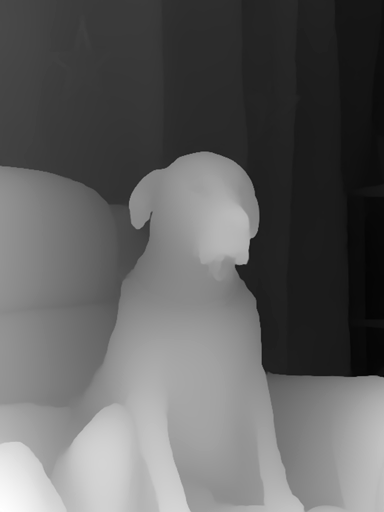
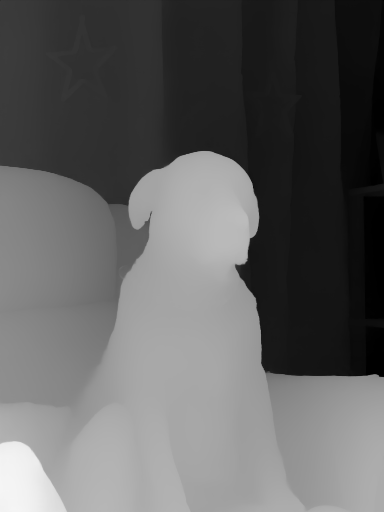
Real depth for 3D photos: Apple Depth Pro + true-shape rendering
- prepare_photos.py: Depth Pro (metric depth + field of view) instead of
  Depth Anything V2 Small; log-depth encoding, subject-aware focus distance,
  depth cached in ~/.cache/photonic-depth so reruns skip the model
- photo shader: relative log depth in a fixed range (faces have shape,
  people stand clear of the background), perspective spread when opened,
  per-pixel edge detection fades outlines instead of smearing them
- opened photo gets the room to itself; overview uses a lighter grid
- dog demo set rebuilt
60 fps in overview and opened photos (1470x850).

diff --git a/src/demos/photoMaterial.js b/src/demos/photoMaterial.js
@@ -1,18 +1,29 @@
 import * as THREE from 'three';
 import { THEME } from '../engine/theme';
 
-// A photo that is really a 3D surface: every vertex is pushed toward you by the
-// AI depth map, so faces bulge forward and backgrounds fall back.
-export const PHOTO_GEO = new THREE.PlaneGeometry(1, 1, 110, 110);
+// A photo rebuilt as real 3D. Depth Pro gives each pixel a distance in metres and the
+// camera's field of view, so every vertex goes back onto its true line of sight:
+// faces bulge, people stand clear of the scenery, hills sit far away.
+//
+// Where depth jumps (a person's outline) the surface would stretch into a smeared
+// curtain; instead it fades out, so people float clear of the scene with a soft gap
+// of sky behind them as you lean.
+// Opened photos get the fine grid; the 31 in the overview use a quarter of the vertices.
+export const PHOTO_GEO = new THREE.PlaneGeometry(1, 1, 128, 128);
+export const PHOTO_GEO_LO = new THREE.PlaneGeometry(1, 1, 64, 64);
 
-export function makePhotoMaterial(map, depth, glow) {
+export function makePhotoMaterial({ map, depth, meta, glow }) {
+    // Where the subject sits in the 0..1 log-depth range (matches the encoding in prepare_photos.py).
+    const focusT = meta ? Math.log(meta.focus / meta.near) / Math.log(meta.far / meta.near) : 0.4;
     return new THREE.ShaderMaterial({
         transparent: true,
         side: THREE.DoubleSide,
         uniforms: {
             uMap: { value: map },
             uDepth: { value: depth },
-            uDepthAmt: { value: 0.22 },
+            uFocusT: { value: focusT },
+            uDepthRange: { value: 0.9 },
+            uDepthAmt: { value: 0.35 },
             uHover: { value: 0 },
             uDissolve: { value: 0 },
             uOpacity: { value: 1 },
@@ -22,57 +33,70 @@ export function makePhotoMaterial(map, depth, glow) {
             uFog: { value: new THREE.Color(THEME.bg) },
         },
         vertexShader: /* glsl */`
-            uniform sampler2D uDepth; uniform float uDepthAmt; uniform float uTime; uniform float uDissolve;
-            varying vec2 vUv; varying float vStretch; varying float vWZ;
+            uniform sampler2D uDepth; uniform float uFocusT; uniform float uDepthRange;
+            uniform float uDepthAmt; uniform float uDissolve;
+            varying vec2 vUv; varying float vL; varying float vWZ;
             void main(){
                 vUv = uv;
-                float d = texture2D(uDepth, uv).r;
-                float e = 1.0/110.0;
-                float dx = texture2D(uDepth, uv+vec2(e,0.)).r - texture2D(uDepth, uv-vec2(e,0.)).r;
-                float dy = texture2D(uDepth, uv+vec2(0.,e)).r - texture2D(uDepth, uv-vec2(0.,e)).r;
-                // Big depth jumps stretch triangles into "curtains"; remember where so we can hide them.
-                vStretch = length(vec2(dx,dy)) * uDepthAmt * 30.0;
-                float edge = smoothstep(0.0,0.05,uv.x)*smoothstep(1.0,0.95,uv.x)*smoothstep(0.0,0.05,uv.y)*smoothstep(1.0,0.95,uv.y);
-                vec3 p = position;
-                p.z += (d - 0.3) * uDepthAmt * mix(0.35, 1.0, edge);
-                // Dissolve: the surface drifts apart as it burns away.
-                p.z += uDissolve * uDissolve * (d + 0.2) * 0.8;
+                // Normalised log depth: 0 = nearest point, 1 = farthest. Log spacing keeps
+                // detail where it matters (faces) and still orders far hills correctly.
+                float t = 1.0 - texture2D(uDepth, uv).r;
+                vL = t;
+                float rel = t - uFocusT;                       // + behind the subject, - in front
+                float open = smoothstep(0.5, 1.0, uDepthAmt);
+                // Depth fits a fixed range (in photo heights), so every photo reads as 3D
+                // without flying across the room. A little perspective spread when opened.
+                vec3 real = vec3(position.xy * (1.0 + rel * 0.15 * open), -rel * uDepthRange);
+                vec3 p = mix(position, real, uDepthAmt);
+                p.z += uDissolve * uDissolve * 0.8;
                 p.xy += (uv - 0.5) * uDissolve * 0.6;
-                vec4 w = modelMatrix * vec4(p,1.0);
+                vec4 w = modelMatrix * vec4(p, 1.0);
                 vWZ = w.z;
                 gl_Position = projectionMatrix * viewMatrix * w;
             }`,
         fragmentShader: /* glsl */`
             uniform sampler2D uMap; uniform float uHover; uniform float uDissolve; uniform float uOpacity;
             uniform float uTime; uniform float uWarn; uniform vec3 uGlow; uniform vec3 uFog;
-            varying vec2 vUv; varying float vStretch; varying float vWZ;
+            uniform float uDepthAmt;
+            varying vec2 vUv; varying float vL; varying float vWZ;
             float hash(vec2 p){ return fract(sin(dot(p, vec2(127.1,311.7))) * 43758.5453); }
             float noise(vec2 p){ vec2 i=floor(p), f=fract(p); f=f*f*(3.0-2.0*f);
                 return mix(mix(hash(i),hash(i+vec2(1,0)),f.x), mix(hash(i+vec2(0,1)),hash(i+vec2(1,1)),f.x), f.y); }
             void main(){
+                // Tear open only along real outlines: a triangle stretched across a depth jump
+                // changes depth very fast per unit of photo (uv); a face's curve changes slowly.
+                vec2 gl = vec2(dFdx(vL), dFdy(vL));
+                float duv = length(vec2(dFdx(vUv.x), dFdy(vUv.x))) + length(vec2(dFdx(vUv.y), dFdy(vUv.y)));
+                float slope = length(gl) / max(duv, 1e-6);
+                float tear = smoothstep(3.0, 7.0, slope) * smoothstep(0.35, 0.7, uDepthAmt);
+                if (tear > 0.97) discard;
+
                 vec3 c = texture2D(uMap, vUv).rgb;
                 float n = noise(vUv*18.0)*0.7 + noise(vUv*60.0)*0.3;
                 float cut = uDissolve * 1.15 - 0.05;
                 if (n < cut) discard;
                 float burn = smoothstep(0.08, 0.0, n - cut) * step(0.001, uDissolve);
 
-                // A frosted white glass frame with a hairline of soft ink outside it.
+
+                // Frosted white frame, fading out as the photo opens into full 3D.
                 float e = min(min(vUv.x, 1.0-vUv.x), min(vUv.y, 1.0-vUv.y));
-                float frame = smoothstep(0.022, 0.016, e);
-                float hair = smoothstep(0.004, 0.0, e);
+                float frameOn = 1.0 - smoothstep(0.45, 0.85, uDepthAmt);
+                float frame = smoothstep(0.022, 0.016, e) * frameOn;
+                float hair = smoothstep(0.004, 0.0, e) * frameOn;
                 vec3 tint = mix(uGlow, vec3(0.84,0.42,0.53), uWarn);
 
                 vec3 col = c;
-                col *= 1.0 - clamp(vStretch - 0.6, 0.0, 0.4);
-                // Hover: a slow sheen of light slides across the photo.
                 float sweep = smoothstep(0.08, 0.0, abs(fract((vUv.x + vUv.y) * 0.5 - uTime * 0.25) - 0.5));
                 col = mix(col, vec3(1.0), sweep * uHover * 0.18);
                 col = mix(col, mix(vec3(1.0), tint, 0.35 + uHover * 0.45 + uWarn * 0.5), frame);
                 col = mix(col, vec3(0.33,0.38,0.49), hair * 0.5);
-                // Atmospheric haze: far photos dissolve into the pale sky.
-                col = mix(col, uFog, smoothstep(-1.2, -6.5, vWZ) * 0.75);
+                // Atmospheric haze: far parts of a photo and far photos melt into the pale sky.
+                float haze = smoothstep(-1.2, -6.5, vWZ) * 0.75 + smoothstep(0.6, 1.0, vL) * 0.25 * uDepthAmt;
+                col = mix(col, uFog, clamp(haze, 0.0, 0.85));
                 col = mix(col, vec3(0.95,0.55,0.62), burn);
-                gl_FragColor = vec4(col, uOpacity);
+                // Soft edges in full 3D so the photo melts into the room instead of ending in a hard line.
+                float edgeFade = mix(1.0, smoothstep(0.0, 0.05, e), smoothstep(0.5, 1.0, uDepthAmt));
+                gl_FragColor = vec4(col, uOpacity * edgeFade * (1.0 - tear));
             }`,
     });
 }

diff --git a/src/demos/galaxy.js b/src/demos/galaxy.js
@@ -4,7 +4,7 @@ import { ui, toast, coachDone } from '../engine/store';
 import { audio } from '../engine/audio';
 import { damp, clamp } from '../engine/filters';
 import { Sparks } from '../engine/fx';
-import { PHOTO_GEO, makePhotoMaterial } from './photoMaterial';
+import { PHOTO_GEO, PHOTO_GEO_LO, makePhotoMaterial } from './photoMaterial';
 
 import { PALETTE, THEME } from '../engine/theme';
 const BASE_H = 0.42;
@@ -68,18 +68,20 @@ export class GalaxyDemo {
         await Promise.all(m.photos.map(async (p, i) => {
             const [map, depth] = await Promise.all([load(p.src, true), load(p.depth, false)]);
             if (!map) return;
-            const mat = makePhotoMaterial(map, depth, PALETTE[m.categories.indexOf(p.category) % PALETTE.length]);
-            const mesh = new THREE.Mesh(PHOTO_GEO, mat);
+            const glow = PALETTE[m.categories.indexOf(p.category) % PALETTE.length];
+            const mat = makePhotoMaterial({ map, depth, meta: p.depthMeta, glow });
+            const mesh = new THREE.Mesh(PHOTO_GEO_LO, mat);
+            const mats = [mat];
             const g = new THREE.Vector3(...p.galaxy);
             const card = {
-                i, data: p, mesh, mat, category: p.category, aiCategory: p.category,
+                i, data: p, mesh, mat, mats, category: p.category, aiCategory: p.category,
                 pos: new THREE.Vector3(g.x * 3, g.y * 2, -8 - Math.random() * 3), // fly in from the back
                 vel: new THREE.Vector3(),
                 home: new THREE.Vector3(),
                 galaxyHome: new THREE.Vector3(g.x * this.stage.W * 0.34, g.y * 0.68, CENTER.z + g.z * 1.2),
                 custom: null,
                 state: 'free', scale: 1, userScale: 1, roll: 0, tilt: new THREE.Vector2(),
-                hover: 0, warn: 0, dim: 1, depthAmt: 0.22, dissolve: 0,
+                hover: 0, warn: 0, dim: 1, depthAmt: 0.3, dissolve: 0,
                 spin: Math.random() * Math.PI * 2,
             };
             mesh.userData.card = card;
@@ -203,20 +205,22 @@ export class GalaxyDemo {
         for (const c of this.cards) {
             if (c.state === 'dead') {
                 c.dissolve = Math.min(1, c.dissolve + dt * 1.1);
-                c.mat.uniforms.uDissolve.value = c.dissolve;
+                for (const m of c.mats) m.uniforms.uDissolve.value = c.dissolve;
                 c.mesh.visible = c.dissolve < 1;
                 continue;
             }
             this.computeHome(c, t);
             let targetScale = c.scale * c.userScale;
-            let targetDepth = 0.22;
-            let dim = this.focus && this.focus !== c ? 0.15 : 1;
+            // How far a photo opens into true 3D: a little in the galaxy, more on hover, fully when opened.
+            let targetDepth = 0.3 + c.hover * 0.2;
+            // An open photo gets the room to itself.
+            let dim = this.focus && this.focus !== c ? 0 : 1;
 
             if (c.state === 'focus') {
-                const maxH = Math.min(1.05, (st.W * 0.5) / c.data.aspect);
+                const maxH = Math.min(0.95, (st.W * 0.45) / c.data.aspect);
                 c.home.set(0, 0, 0.45);
                 targetScale = (maxH / BASE_H) * c.userScale;
-                targetDepth = 0.5;
+                targetDepth = 1;
                 c.pos.lerp(c.home, damp(7, dt));
                 c.vel.set(0, 0, 0);
             } else if (c.state === 'held') {
@@ -236,6 +240,7 @@ export class GalaxyDemo {
             }
 
             c.dim += (dim - c.dim) * k;
+            c.mesh.visible = c.dim > 0.02;
             c.depthAmt += (targetDepth - c.depthAmt) * damp(5, dt);
             const s = THREE.MathUtils.lerp(c.mesh.scale.y / BASE_H || targetScale, targetScale, k);
             c.mesh.scale.set(BASE_H * c.data.aspect * s, BASE_H * s, BASE_H * s);
@@ -249,13 +254,16 @@ export class GalaxyDemo {
             const pitchTo = -Math.atan2(this._v.y, Math.hypot(this._v.x, this._v.z)) * 0.25;
             c.mesh.rotation.set(pitchTo + c.tilt.y, yawTo + c.tilt.x, c.roll, 'YXZ');
 
-            const u = c.mat.uniforms;
-            u.uTime.value = t;
-            u.uHover.value = c.state === 'focus' ? 0 : c.hover;
-            u.uWarn.value = c.warn;
-            u.uOpacity.value = c.dim;
-            u.uDepthAmt.value = c.depthAmt;
+            for (const m of c.mats) {
+                const u = m.uniforms;
+                u.uTime.value = t;
+                u.uHover.value = c.state === 'focus' ? 0 : c.hover;
+                u.uWarn.value = c.warn;
+                u.uOpacity.value = c.dim;
+                u.uDepthAmt.value = c.depthAmt;
+            }
             c.mesh.renderOrder = c.state === 'focus' || c.state === 'held' ? 3 : 1;
+            c.mesh.geometry = c.state === 'focus' ? PHOTO_GEO : PHOTO_GEO_LO;
         }
 
         // ---- rings ----
@@ -515,7 +523,7 @@ export class GalaxyDemo {
         for (const c of this.deleted) {
             c.state = 'free';
             c.dissolve = 0;
-            c.mat.uniforms.uDissolve.value = 0;
+            for (const m of c.mats) m.uniforms.uDissolve.value = 0;
             c.mesh.visible = true;
             c.pos.set(c.pos.x, c.pos.y, -7);
         }
@@ -546,7 +554,7 @@ export class GalaxyDemo {
         this.stage.scene.remove(this.group, this.tag);
         this.tag.element.remove();
         for (const r of this.rings) { this.stage.scene.remove(r.mesh, r.label); r.label.element.remove(); r.mesh.geometry.dispose(); }
-        for (const c of this.cards) { c.mat.uniforms.uMap.value?.dispose(); c.mat.uniforms.uDepth.value?.dispose(); c.mat.dispose(); }
+        for (const c of this.cards) for (const m of c.mats) { m.uniforms.uMap.value?.dispose(); m.uniforms.uDepth.value?.dispose(); m.dispose(); }
         this.sparks.dispose();
         ui.set({ hovered: null, focused: null });
     }

diff --git a/scripts/prepare_photos.py b/scripts/prepare_photos.py
@@ -1,19 +1,23 @@
 """Precompute everything heavy so the browser only runs hand + face tracking.
 
-For each photo in public/local/src it writes:
-  public/local/photos/<id>.jpg   resized photo
-  public/local/depth/<id>.png    Depth Anything V2 depth map (white = near)
-and public/local/manifest.json with a CLIP category, a 3D "galaxy" position
-(photos that look alike sit near each other) and a dominant colour.
+For each photo it writes, under public/<set>/:
+  photos/<id>.jpg     resized photo
+  depth/<id>.png      Depth Pro metric depth, log-encoded (white = near)
+and manifest.json with each photo's depth range, focus distance and field of view,
+a CLIP category, a 3D "galaxy" position (look-alike photos sit together) and a colour.
+
+Depth Pro (Apple) gives real distances in metres and the camera's field of view, so the
+browser can put every pixel back on its true line of sight instead of just pushing the
+photo out by a fixed amount.
 
 Run: python3 scripts/prepare_photos.py                 (your photos, public/local)
      python3 scripts/prepare_photos.py --set demo      (the dog photos, public/demo)
 """
-import argparse, json, os, glob
+import argparse, gc, hashlib, json, os, glob
+import cv2
 import numpy as np
 import torch
 from PIL import Image, ImageOps
-from transformers import pipeline, CLIPModel, CLIPProcessor
 
 ap = argparse.ArgumentParser()
 ap.add_argument('--set', choices=['local', 'demo'], default='local')
@@ -30,32 +34,83 @@ CATEGORIES = {
     'Dogs': 'a photo of a dog',
     'Art': 'a charcoal drawing or sketch',
 }
-
 device = 'mps' if torch.backends.mps.is_available() else 'cpu'
-os.makedirs(os.path.join(ROOT, 'photos'), exist_ok=True)
-os.makedirs(os.path.join(ROOT, 'depth'), exist_ok=True)
+CACHE = os.path.expanduser('~/.cache/photonic-depth')
+os.makedirs(CACHE, exist_ok=True)
+for d in ['photos', 'depth']:
+    os.makedirs(os.path.join(ROOT, d), exist_ok=True)
 
-depth = pipeline('depth-estimation', model='depth-anything/Depth-Anything-V2-Small-hf', device=device)
+paths = sorted(glob.glob(os.path.join(SRC, '*.jpg')) + glob.glob(os.path.join(SRC, '*.webp')))
+images = []
+for path in paths:
+    img = ImageOps.exif_transpose(Image.open(path)).convert('RGB')
+    img.thumbnail((1024, 1024))
+    images.append(img)
+
+
+def encode(depth, near, far):
+    """Log-depth to 8 bits, white = near. Log keeps detail on faces and still covers far hills."""
+    t = (np.log(np.clip(depth, near, far)) - np.log(near)) / (np.log(far) - np.log(near))
+    return ((1 - t) * 255).round().astype(np.uint8)
+
+
+# ---- pass 1: depth (one model in memory at a time keeps the Air out of swap) ----
+from transformers import AutoImageProcessor, DepthProForDepthEstimation
+dproc = dmodel = None  # loaded only if some photo isn't cached yet
+
+meta = []
+for i, img in enumerate(images):
+    pid = f'p{i:02d}'
+    img.save(os.path.join(ROOT, 'photos', pid + '.jpg'), quality=85)
+    w, h = max(1, img.width // 2), max(1, img.height // 2)
+    # Depth Pro is the slow part, so its raw output is cached outside the repo.
+    key = hashlib.sha1(np.asarray(img).tobytes()).hexdigest()[:16]
+    cached = os.path.join(CACHE, key + '.npz')
+    if os.path.exists(cached):
+        z = np.load(cached)
+        depth, fov = z['depth'].astype(np.float32), float(z['fov'])
+    else:
+        if dmodel is None:
+            dproc = AutoImageProcessor.from_pretrained('apple/DepthPro-hf')
+            dmodel = DepthProForDepthEstimation.from_pretrained('apple/DepthPro-hf', torch_dtype=torch.float16).to(device).eval()
+        with torch.no_grad():
+            out = dmodel(**dproc(images=img, return_tensors='pt').to(device, torch.float16))
+        post = dproc.post_process_depth_estimation(out, target_sizes=[(h, w)])[0]
+        depth = post['predicted_depth'].float().cpu().numpy()
+        fov = float(post['field_of_view']) if post.get('field_of_view') is not None else 60.0
+        np.savez_compressed(cached, depth=depth.astype(np.float16), fov=fov)
+        torch.mps.empty_cache() if device == 'mps' else None
+
+    # Focus (the depth the photo plane sits at) = the subject: pixels standing clearly in
+    # front of something farther nearby, i.e. people and objects rather than walls or sky.
+    logd = np.log(np.maximum(depth, 1e-3))
+    k = max(7, int(0.07 * max(w, h)))
+    farthest_near = cv2.dilate(logd, cv2.getStructuringElement(cv2.MORPH_ELLIPSE, (k, k)))
+    subject = (farthest_near - logd) > 0.25
+    focus = float(np.median(depth[subject])) if subject.mean() > 0.005 else float(np.percentile(depth, 30))
+    near = max(0.05, float(np.percentile(depth, 0.5)) * 0.95)
+    far = max(near * 1.5, min(float(np.percentile(depth, 99.5)), focus * 6))
+    Image.fromarray(encode(depth, near, far)).save(os.path.join(ROOT, 'depth', pid + '.png'))
+
+    item = {'near': round(near, 4), 'far': round(far, 4), 'focus': round(focus, 4), 'fov': round(fov, 2)}
+    meta.append(item)
+    print(pid, f"fov {fov:.0f}°  near {near:.2f}m  focus {focus:.2f}m  far {far:.2f}m", flush=True)
+
+del dmodel
+gc.collect()
+torch.mps.empty_cache() if device == 'mps' else None
+
+# ---- pass 2: CLIP categories + galaxy layout ----
+from transformers import CLIPModel, CLIPProcessor
 clip = CLIPModel.from_pretrained('openai/clip-vit-base-patch32').to(device)
 proc = CLIPProcessor.from_pretrained('openai/clip-vit-base-patch32')
-
 with torch.no_grad():
     t = proc(text=list(CATEGORIES.values()), return_tensors='pt', padding=True).to(device)
     text_emb = torch.nn.functional.normalize(clip.get_text_features(**t), dim=-1)
 
 items, embs = [], []
-for i, path in enumerate(sorted(glob.glob(os.path.join(SRC, '*.jpg')) + glob.glob(os.path.join(SRC, '*.webp')))):
+for i, (img, m) in enumerate(zip(images, meta)):
     pid = f'p{i:02d}'
-    img = ImageOps.exif_transpose(Image.open(path)).convert('RGB')
-    img.thumbnail((1024, 1024))
-    img.save(os.path.join(ROOT, 'photos', pid + '.jpg'), quality=85)
-
-    d = depth(img)['depth']  # PIL L image, bright = near
-    d = d.resize((max(1, img.width // 2), max(1, img.height // 2)))
-    arr = np.asarray(d).astype(np.float32)
-    arr = (arr - arr.min()) / max(1e-6, arr.max() - arr.min()) * 255
-    Image.fromarray(arr.astype(np.uint8)).save(os.path.join(ROOT, 'depth', pid + '.png'))
-
     with torch.no_grad():
         e = clip.get_image_features(**proc(images=img, return_tensors='pt').to(device))
         e = torch.nn.functional.normalize(e, dim=-1)
@@ -70,12 +125,12 @@ for i, path in enumerate(sorted(glob.glob(os.path.join(SRC, '*.jpg')) + glob.glo
         'id': pid,
         'src': f'/{SET}/photos/{pid}.jpg',
         'depth': f'/{SET}/depth/{pid}.png',
+        'depthMeta': {k: m[k] for k in ['near', 'far', 'focus', 'fov']},
         'aspect': round(img.width / img.height, 4),
         'category': list(CATEGORIES)[int(scores.argmax())],
         'confidence': round(float(scores.max()), 3),
         'color': '#%02x%02x%02x' % tuple(int(c) for c in col),
     })
-    print(pid, os.path.basename(path), items[-1]['category'])
 
 # 3D layout: PCA of CLIP embeddings, so similar photos cluster together.
 E = np.stack(embs)
